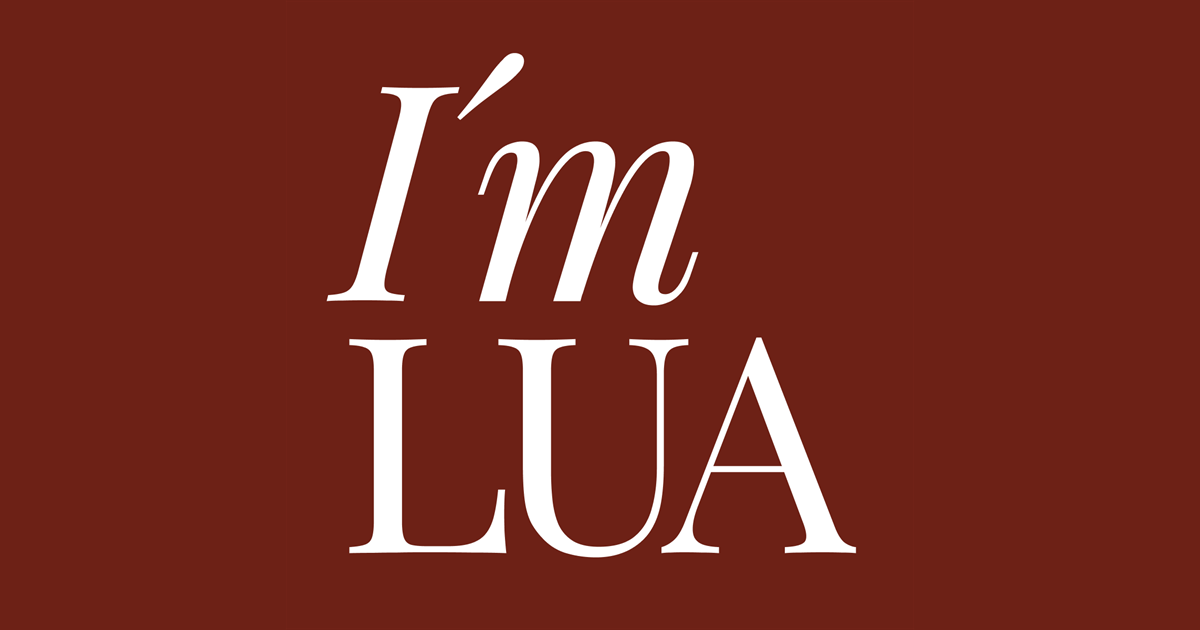
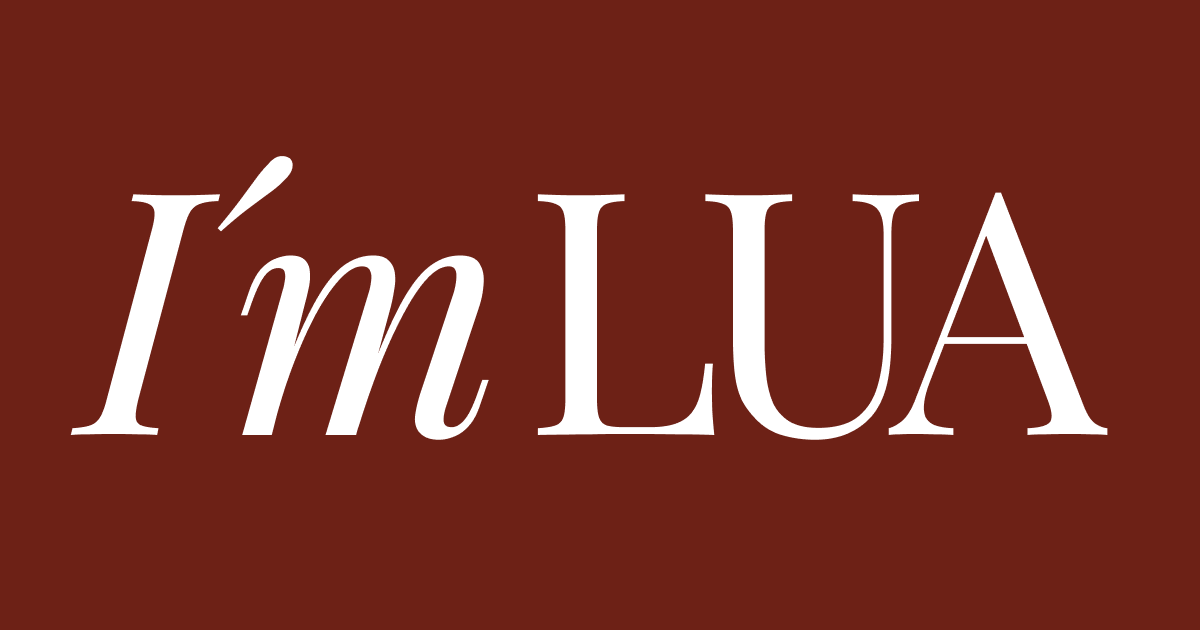
fix: header link and og images

Changed region(s): [[0.185, 0.0905, 0.925, 0.9048], [0.0617, 0.2413, 0.2467, 0.6937]]

diff --git a/js/script.js b/js/script.js
@@ -640,7 +640,8 @@
       updateProgress();
     });
 
-    // Os links "Sobre" apontam para dentro da própria Hero (a mesma
+    // Os links "Sobre" (nav e o logo "I'm LUA" do header, todos
+    // href="#sobre") apontam para dentro da própria Hero (a mesma
     // secção que .about__overlay sobrepõe, ver #sobre no HTML) — a
     // navegação nativa por âncora pousaria só no topo dela; aqui
     // calcula-se o ponto exato do percurso preso em que o texto já
@@ -1229,7 +1230,20 @@
     }
 
     toggle.addEventListener('click', () => {
+      // Pequeno "tap" de feedback no próprio botão, à parte da
+      // animação do ícone virando X (essa já existe via is-open-m,
+      // ver style.css) — classe reiniciada a cada clique (reflow
+      // forçado) para repetir a animação mesmo em cliques seguidos
+      // antes do fim da anterior; .is-tapped-m só existe dentro dos
+      // blocos mobile de style.css (nunca no desktop).
+      toggle.classList.remove('is-tapped-m');
+      void toggle.offsetWidth;
+      toggle.classList.add('is-tapped-m');
       setOpen(!menu.classList.contains('is-open-m'));
+    });
+
+    toggle.addEventListener('animationend', () => {
+      toggle.classList.remove('is-tapped-m');
     });
 
     // Fecha ao escolher um link (Trabalho/Sobre/Contacto) ou ao trocar
@@ -1614,19 +1628,23 @@
       updateProgress();
     });
 
-    // O link "Sobre" (Hero e o do painel do sanduíche, ambos
-    // href="#sobre") aponta para dentro da própria Hero — a navegação
-    // nativa por âncora pousaria só no topo dela (ou nem isso, o
-    // duplicado mobile não tem id="sobre" — ver index.html); aqui
-    // calcula-se o ponto exato do percurso preso em que a revelação
-    // (3 passos exclusivos, ver updateAboutReveal acima) já chegou ao
-    // último passo (os números/.about-m__stats) e rola-se até lá, em
-    // vez de parar no primeiro texto a meio da sequência.
+    // Os links "Sobre" (nav da Hero, painel do sanduíche e o logo
+    // "I'm LUA" do header, todos href="#sobre") apontam para dentro da
+    // própria Hero — a navegação nativa por âncora pousaria só no topo
+    // dela (ou nem isso, o duplicado mobile não tem id="sobre" — ver
+    // index.html); aqui calcula-se o ponto exato do percurso preso em
+    // que a revelação (3 passos exclusivos, ver updateAboutReveal
+    // acima) acaba de chegar ao PRIMEIRO passo (o texto "Durante oito
+    // anos...", .about-m__text--bottom) e rola-se até lá — é esse o
+    // primeiro texto a que o ecrã deve ficar visível ao entrar em
+    // "Sobre" no mobile, não o último (os números). +2px de folga
+    // garante scrolled > growRangePx mesmo com arredondamento, senão
+    // cai no ramo que ainda esconde tudo (ver updateAboutReveal).
     document.querySelectorAll('a[href="#sobre"]').forEach((a) => {
       a.addEventListener('click', (e) => {
         e.preventDefault();
         const wrapTop = wrap.getBoundingClientRect().top + window.scrollY;
-        window.scrollTo({ top: wrapTop + growRangePx + revealRangePx, behavior: 'smooth' });
+        window.scrollTo({ top: wrapTop + growRangePx + 2, behavior: 'smooth' });
       });
     });
 

diff --git a/css/style.css b/css/style.css
@@ -2158,6 +2158,24 @@ button:focus-visible,
     transform: rotate(-45deg);
   }
 
+  /* Pequeno "tap" de feedback no próprio botão ao clicar (JS,
+     initMobileMenu, adiciona/remove .is-tapped-m a cada clique) — à
+     parte da animação do ícone virando X acima, que já é suave mas só
+     mexe nos traços; isto dá um retorno tátil ao botão como um todo.
+     Encolhe mais (0.7, não 0.82) e ultrapassa o 1 no fim (1.12, um
+     "pop" pequeno) antes de assentar — mais percetível que um simples
+     down/up sem overshoot, mesmo ainda rápido/discreto. */
+  @keyframes menuToggleTapM {
+    0% { transform: scale(1); }
+    35% { transform: scale(0.7); }
+    65% { transform: scale(1.12); }
+    100% { transform: scale(1); }
+  }
+
+  .site-header__menu-toggle-m.is-tapped-m {
+    animation: menuToggleTapM 0.42s var(--ease);
+  }
+
   .site-header__menu-m {
     display: flex;
     flex-direction: column;
@@ -2677,6 +2695,26 @@ button:focus-visible,
   .site-header__menu-toggle-m.is-open-m .site-header__menu-icon-m::after {
     top: 0;
     transform: rotate(-45deg);
+  }
+
+  /* Pequeno "tap" de feedback no próprio botão ao clicar (JS,
+     initMobileMenu, adiciona/remove .is-tapped-m a cada clique) — à
+     parte da animação do ícone virando X acima, que já é suave mas só
+     mexe nos traços; isto dá um retorno tátil ao botão como um todo.
+     Encolhe mais (0.7, não 0.82) e ultrapassa o 1 no fim (1.12, um
+     "pop" pequeno) antes de assentar — mais percetível que um simples
+     down/up sem overshoot, mesmo ainda rápido/discreto.
+     Duplicado do mesmo @keyframes/regra da FASE 1 (769-1365px) acima,
+     isolado neste bloco (≤768px) como o resto do CSS "-m". */
+  @keyframes menuToggleTapM {
+    0% { transform: scale(1); }
+    35% { transform: scale(0.7); }
+    65% { transform: scale(1.12); }
+    100% { transform: scale(1); }
+  }
+
+  .site-header__menu-toggle-m.is-tapped-m {
+    animation: menuToggleTapM 0.42s var(--ease);
   }
 
   /* .site-header__menu-m deixa de ser display:contents (regra base) e

diff --git a/index.html b/index.html
@@ -45,7 +45,7 @@
        logo, nav) à medida que a Hero é "engolida" pelo scroll. -->
   <header class="site-header" id="siteHeader">
     <div class="site-header__inner">
-      <a href="#top" class="site-header__logo" aria-label="Luana Gondim — página inicial"><em>I'm</em> LUA</a>
+      <a href="#sobre" class="site-header__logo" aria-label="Luana Gondim — sobre"><em>I'm</em> LUA</a>
 
       <nav class="site-header__nav" aria-label="Navegação principal">
         <!-- .site-header__menu-m agrupa nav+idioma só para o painel do
